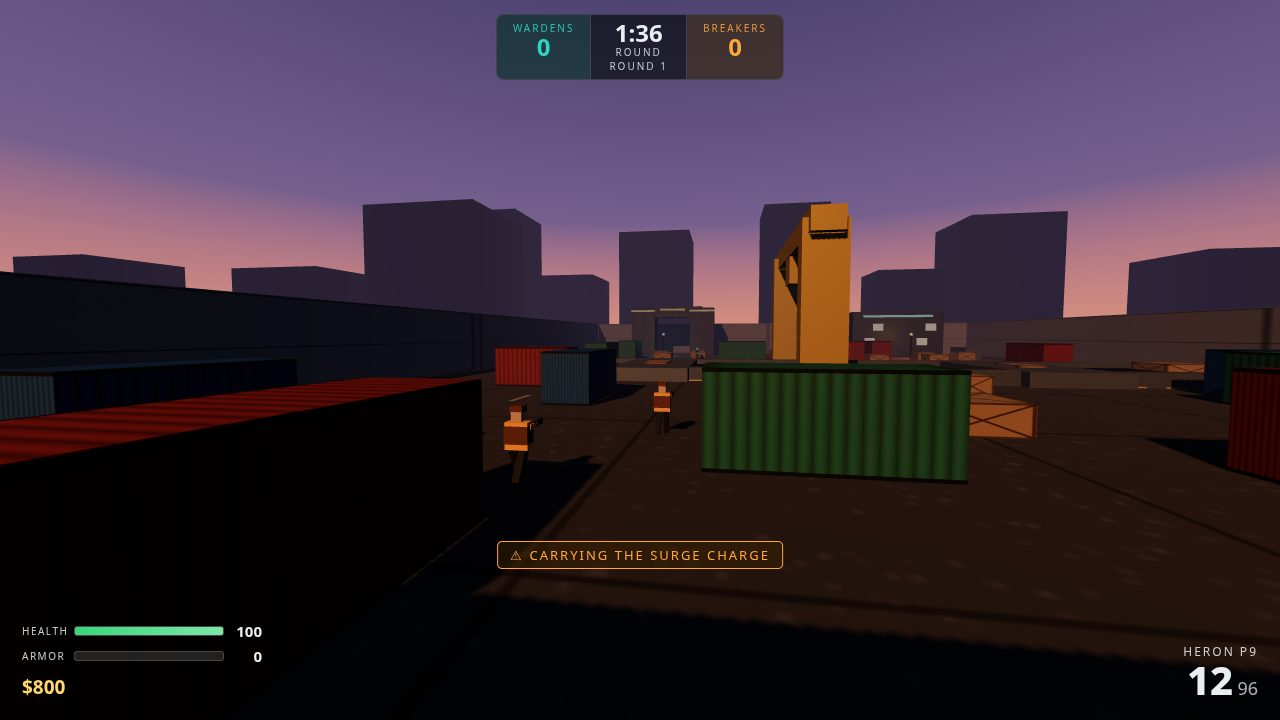
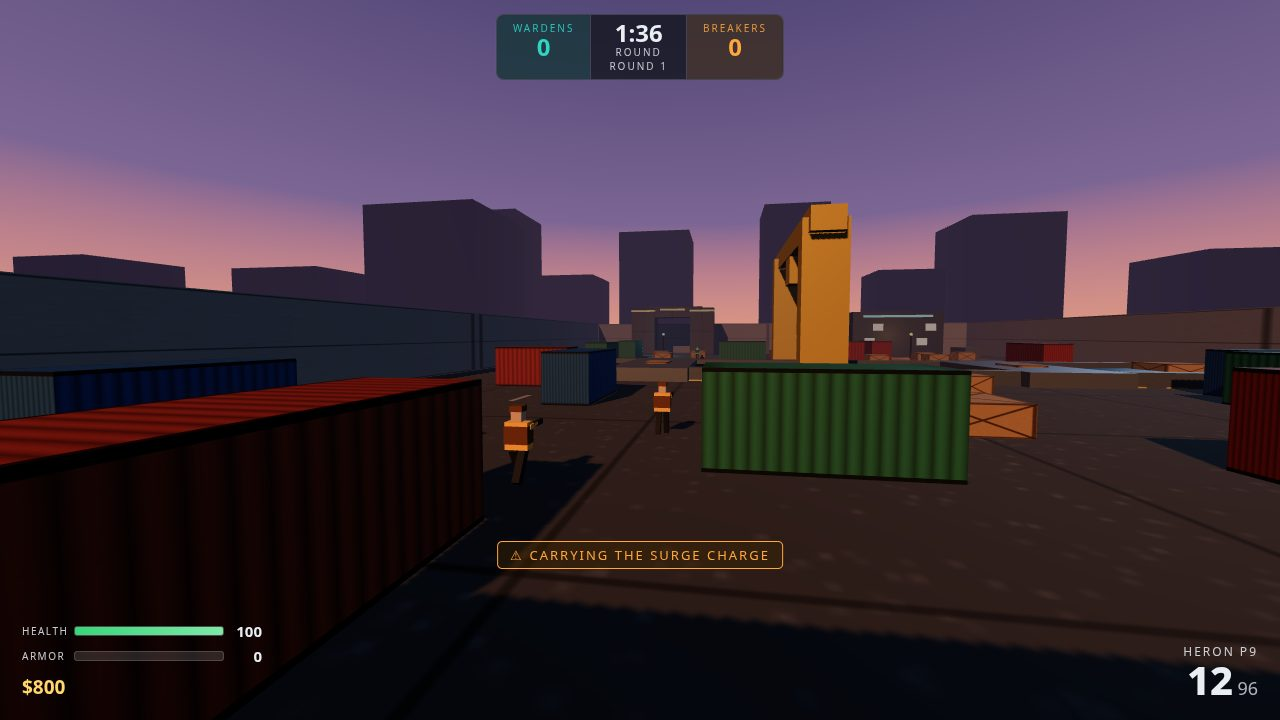
Screenshots + lighting/viewmodel polish: camera fill light, dusk fill, posed scenes

diff --git a/game/src/shot.js b/game/src/shot.js
@@ -52,8 +52,8 @@ export function setupShot(game, name) {
     p.pitch = 0.02;
     game.refreshViewmodel();
     game.staticScene = true;
-    poseBot(wardens[0], 11, -15.5, Math.PI / 2, { walk: 2.8 });
-    poseBot(wardens[1], 16, -20, Math.PI / 2);
+    poseBot(wardens[0], 10, -14.5, Math.PI / 2, { walk: 2.8 });
+    poseBot(wardens[1], 15, -18.5, Math.PI / 2);
     poseBot(wardens[2], 30, 21, Math.PI / 2);
     poseBot(wardens[3], 33, 14, Math.PI / 2);
     poseBot(breakers[0], -12, -20, -Math.PI / 2, { walk: 0.7 });
@@ -64,13 +64,13 @@ export function setupShot(game, name) {
     hud.setVitals(72, 40);
     hud.setMoney(3400);
     hud.setAmmo(18, 75, 'LONGSHORE AR');
-    hud.killfeed('<span class="kb">You</span> <span class="wpn">Longshore AR</span> <span class="kw">Tarn</span> <span class="hs">HEADSHOT</span>');
-    hud.killfeed('<span class="kw">Vigil</span> <span class="wpn">Rook-9</span> <span class="kb">Grift</span>');
     game.shotIgnite = () => {
+      hud.killfeed('<span class="kb">You</span> <span class="wpn">Longshore AR</span> <span class="kw">Tarn</span> <span class="hs">HEADSHOT</span>');
+      hud.killfeed('<span class="kw">Vigil</span> <span class="wpn">Rook-9</span> <span class="kb">Grift</span>');
       game.camera.updateMatrixWorld();
       const eye = p.eyePos(new THREE.Vector3());
       const muzzle = game.vmMuzzle.getWorldPosition(new THREE.Vector3());
-      const target = new THREE.Vector3(11, 2.15, -15.5);
+      const target = new THREE.Vector3(10, 2.15, -14.5);
       game.effects.tracer(muzzle, target, 0xfff3cf);
       game.effects.impact(target, false);
       game.effects.flash(muzzle);
@@ -79,13 +79,13 @@ export function setupShot(game, name) {
   } else if (name === 'plant') {
     // The plant at Sluice A, covered by two teammates.
     const s = SITES.A;
-    game.shotCamera = { pos: new THREE.Vector3(26.5, 2.4, -25.5), look: new THREE.Vector3(s.plant[0], 1, s.plant[1]) };
+    game.shotCamera = { pos: new THREE.Vector3(20, 2.4, -18.5), look: new THREE.Vector3(s.plant[0] + 0.5, 0.8, s.plant[1]) };
     poseBot(breakers[0], s.plant[0], s.plant[1], -Math.PI / 2, { channel: 'plant' });
     breakers[0].channelPos = { x: s.plant[0], z: s.plant[1] };
     game.charge = { state: 'planted', carrier: null, pos: { x: s.plant[0] + 0.4, z: s.plant[1] + 0.3 }, site: 'A' };
-    poseBot(breakers[1], 29, -24.5, -Math.PI / 2);
-    poseBot(breakers[2], 30, -11.5, -Math.PI / 2, { walk: 4.4 });
-    poseBot(wardens[0], 19, -10, Math.PI / 2, { walk: 1.5 });
+    poseBot(breakers[1], 30, -13.5, -Math.PI / 2);
+    poseBot(breakers[2], 37, -24, Math.PI / 2, { walk: 4.4 });
+    poseBot(wardens[0], 31, 7, Math.PI / 2, { walk: 1.5 });
     poseBot(wardens[1], 36, 0, Math.PI / 2);
     poseBot(wardens[2], 30, 21, Math.PI / 2);
     poseBot(wardens[3], 33, 14, Math.PI / 2);

diff --git a/game/src/game.js b/game/src/game.js
@@ -28,7 +28,7 @@ export class Game {
     this.renderer.shadowMap.enabled = !opts.lowGfx;
     this.renderer.shadowMap.type = THREE.PCFSoftShadowMap;
     this.renderer.toneMapping = THREE.ACESFilmicToneMapping;
-    this.renderer.toneMappingExposure = 1.12;
+    this.renderer.toneMappingExposure = 1.22;
     container.appendChild(this.renderer.domElement);
 
     this.scene = new THREE.Scene();
@@ -91,6 +91,10 @@ export class Game {
   buildViewmodelAnchor() {
     this.vmAnchor = new THREE.Group();
     this.camera.add(this.vmAnchor);
+    // a soft warm light riding the camera keeps the viewmodel readable
+    const vmLight = new THREE.PointLight(0xffd9b0, 0.55, 4.5);
+    vmLight.position.set(0.15, 0.05, -0.25);
+    this.camera.add(vmLight);
     this.scene.add(this.camera);
     this.vm = null; this.vmMuzzle = null; this.vmFor = null;
   }
@@ -160,6 +164,7 @@ export class Game {
     if (this.vm) { this.vmAnchor.remove(this.vm); }
     const w = this.player.weapon;
     const built = buildViewmodel(w.id, TEAMS.breakers.color);
+    built.group.scale.setScalar(0.7);
     this.vm = built.group; this.vmMuzzle = built.muzzle;
     this.vmAnchor.add(this.vm);
   }
@@ -470,7 +475,7 @@ export class Game {
   update(dt) {
     const t = performance.now() / 1000;
     for (const fn of this.world.tickers) fn(dt, t);
-    this.effects.update(dt);
+    this.effects.update(this.staticScene ? 0.004 : dt);
     this.hud.update(dt);
     this.chargeLampMat.emissiveIntensity = 1.8 + Math.sin(t * (this.charge && this.charge.state === 'planted' ? 9 : 3)) * 1.1;
     this.updateChargeProp();
@@ -484,7 +489,6 @@ export class Game {
     if (this.staticScene) {
       // posed first-person screenshot scene: camera and effects only
       this.updateCamera(0.016);
-      this.effects.update(0.004);
       this.renderer.render(this.scene, this.camera);
       return;
     }
@@ -713,9 +717,9 @@ export class Game {
     if (p.switchT > 0) dip = -Math.sin((p.switchT / 0.32) * Math.PI) * 0.17;
     if (p.weapon && p.weapon.reloading) dip = -Math.sin(Math.min(1, 1 - p.weapon.reloadT / p.weapon.def.reloadTime) * Math.PI) * 0.22;
     vm.position.set(
-      0.235 * (1 - ads) + bobX * (1 - ads),
-      -0.225 + ads * 0.077 + Math.abs(Math.cos(p.bobPhase)) * 0.008 * p.bobAmt + dip,
-      -0.45 - this.recoil * 0.7
+      0.25 * (1 - ads) + bobX * (1 - ads),
+      -0.235 + ads * 0.1825 + Math.abs(Math.cos(p.bobPhase)) * 0.008 * p.bobAmt + dip,
+      -0.5 - this.recoil * 0.7
     );
     vm.rotation.set(this.recoil * 1.4 + (dip ? -dip * 1.1 : 0), 0, 0);
     const fov = 74 - ads * (p.weapon.def.zoom > 2 ? 34 : 13);

diff --git a/game/src/world.js b/game/src/world.js
@@ -38,9 +38,9 @@ export class World {
   }
 
   buildLights(scene) {
-    const hemi = new THREE.HemisphereLight(0x8093c4, 0x3a2e24, 0.85);
+    const hemi = new THREE.HemisphereLight(0x8093c4, 0x3a2e24, 1.1);
     scene.add(hemi);
-    const sun = new THREE.DirectionalLight(0xffb377, 2.4);
+    const sun = new THREE.DirectionalLight(0xffb377, 2.6);
     sun.position.set(-60, 38, -18);
     sun.castShadow = true;
     sun.shadow.mapSize.set(2048, 2048);
@@ -50,6 +50,10 @@ export class World {
     sun.shadow.bias = -0.0006;
     scene.add(sun);
     this.sun = sun;
+    // cool fill from the east so shaded faces keep their shape at dusk
+    const fill = new THREE.DirectionalLight(0x8fb4d8, 0.5);
+    fill.position.set(50, 26, 40);
+    scene.add(fill);
     scene.fog = new THREE.FogExp2(0x33283d, 0.0105);
   }
 

diff --git a/game/src/main.js b/game/src/main.js
@@ -42,8 +42,8 @@ function loop(nowMs) {
   for (let i = 0; i < subSteps; i++) game.update(dt);
   if (shotName) {
     frames++;
-    if (frames === 10 && game.shotIgnite) game.shotIgnite();
-    if (frames === 18) window.__shotReady = true;
+    if (frames === 11 && game.shotIgnite) game.shotIgnite();
+    if (frames === 13) window.__shotReady = true;
   }
 }
 requestAnimationFrame(loop);
